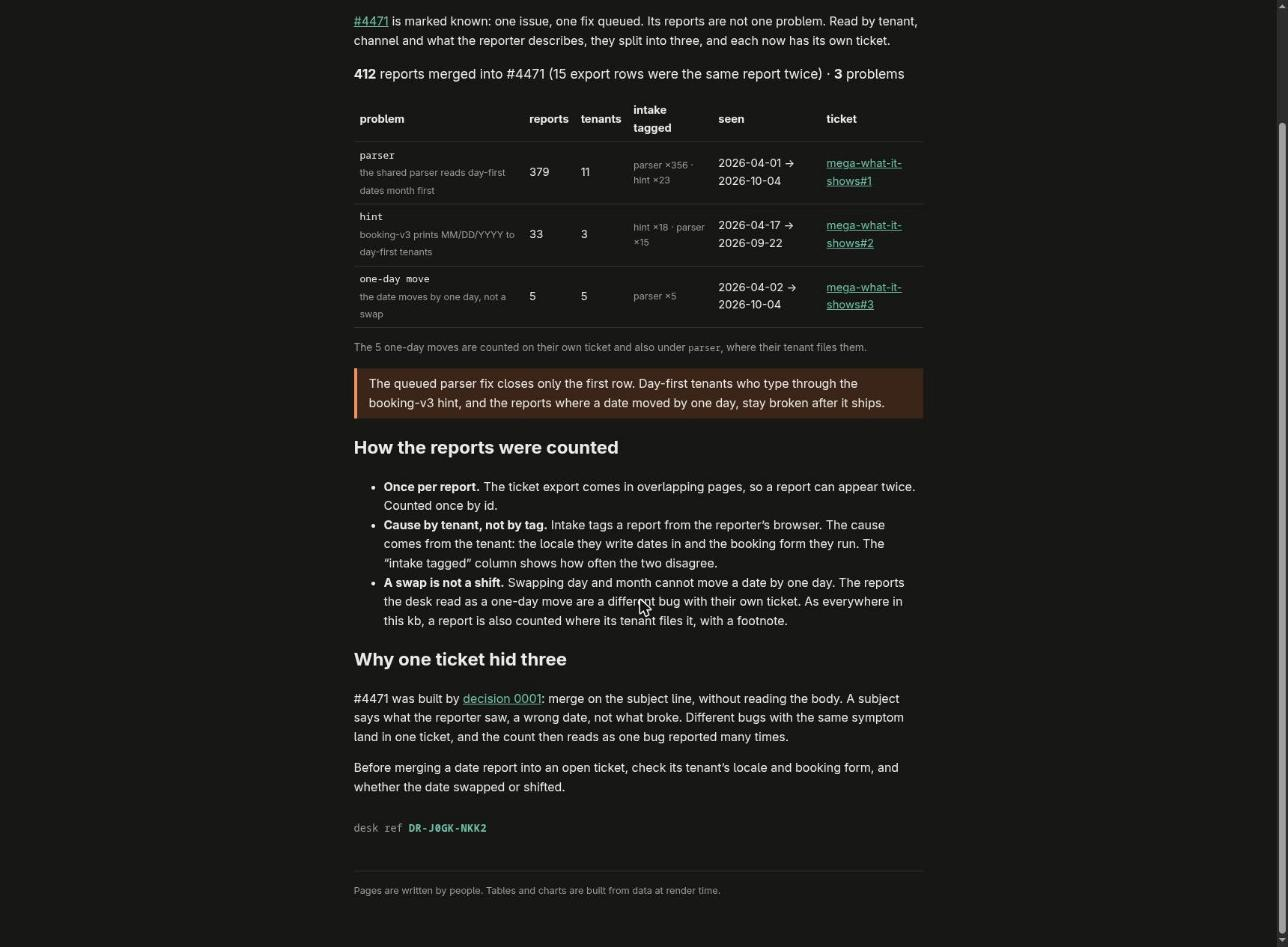
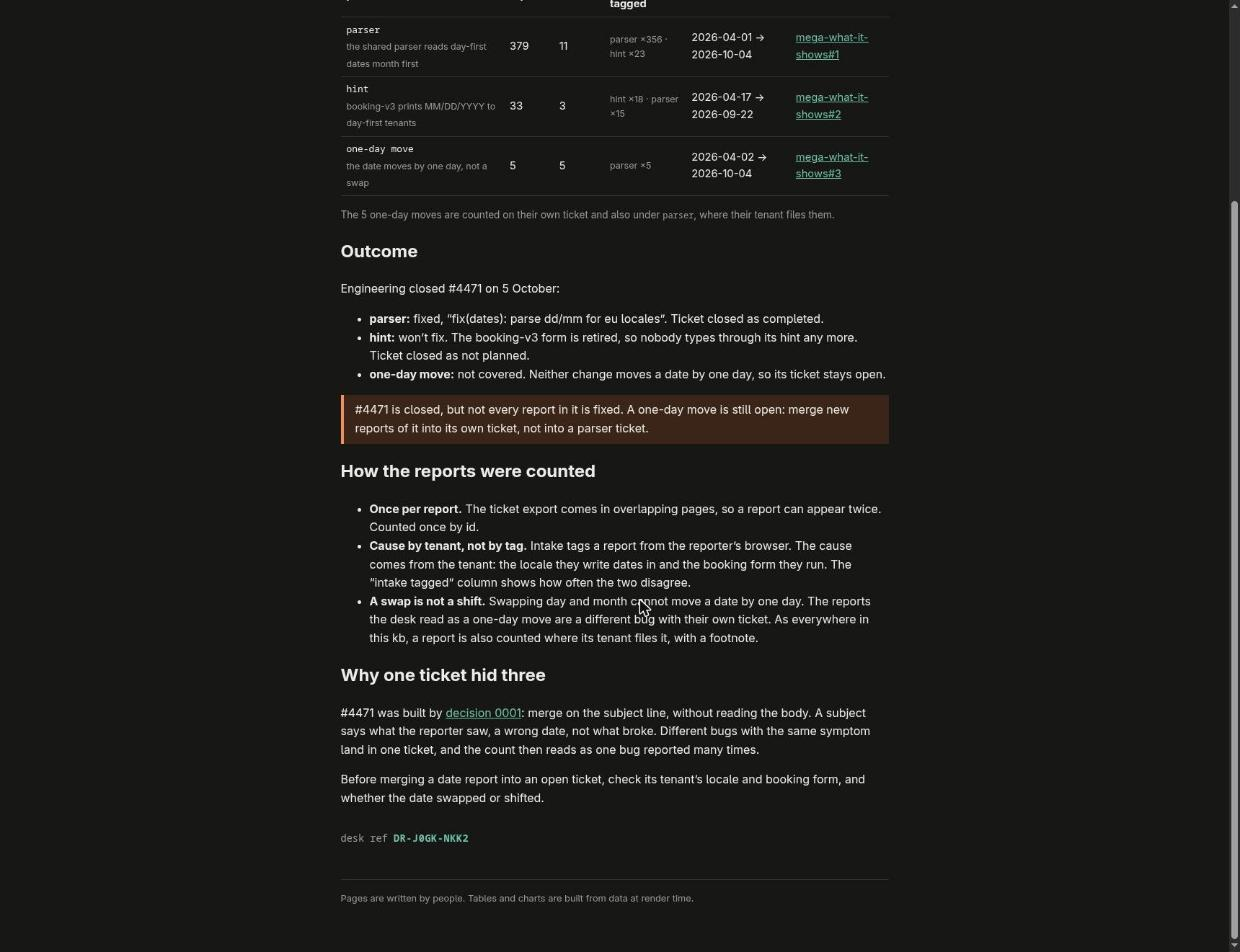
Record how #4471 closed on the kb page
Engineering closed #4471 on 05 Oct: parser fixed, booking-v3 hint
won't fix (form retired). Tickets #1 and #2 closed to match; the
one-day move (#3) is not covered and stays open. Render rebuilt.

Changed region(s): [[0.2758, 0.0, 0.7355, 0.8881], [0.2758, 0.9187, 0.5516, 0.9493], [0.9806, 0.1225, 1.0, 0.2144]]

diff --git a/rendered/kb/incidents/4471/problems.html b/rendered/kb/incidents/4471/problems.html
@@ -18,8 +18,9 @@ aside.svelte-17bri61{border-left:4px solid var(--accent);padding:.5rem 1rem;marg
     <div style="display: contents"><!--[--><!--[0--><!--[--><!--[--><div class="kb svelte-e2jw2j"><header><a class="crumb svelte-e2jw2j" href="/kb">support desk · kb</a> <h1 class="svelte-e2jw2j">#4471 · what it holds: three problems, three tickets</h1> <p class="meta svelte-e2jw2j"><span>owner <b>memmmmike</b></span> <span class="status open svelte-e2jw2j">open</span> <span class="svelte-e2jw2j">reviewed 2026-11-02 · 1 days ago</span></p></header> <!--[-1--><!--]--> <main><p><a href="/kb/incidents/4471">#4471</a> is marked known: one issue, one fix queued. Its reports are not one
 problem. Read by tenant, channel and what the reporter describes, they split into three, and each
 now has its own ticket.</p> <p class="sum svelte-1op6c6"><strong>412</strong> reports merged into #4471
-  (15 export rows were the same report twice) · <strong>3</strong> problems</p> <table><thead><tr><th>problem</th><th>reports</th><th>tenants</th><th>intake tagged</th><th>seen</th><th>ticket</th></tr></thead><tbody><!--[--><tr><td><code>parser</code> <!--[0--><br/><span class="what svelte-1op6c6">the shared parser reads day-first dates month first</span><!--]--></td><td>379</td><td>11</td><td class="tags svelte-1op6c6">parser ×356 · hint ×23</td><td>2026-04-01 → 2026-10-04</td><td><!--[0--><a href="https://github.com/memmmmike/mega-what-it-shows/issues/1">mega-what-it-shows#1</a><!--]--></td></tr><tr><td><code>hint</code> <!--[0--><br/><span class="what svelte-1op6c6">booking-v3 prints MM/DD/YYYY to day-first tenants</span><!--]--></td><td>33</td><td>3</td><td class="tags svelte-1op6c6">hint ×18 · parser ×15</td><td>2026-04-17 → 2026-09-22</td><td><!--[0--><a href="https://github.com/memmmmike/mega-what-it-shows/issues/2">mega-what-it-shows#2</a><!--]--></td></tr><tr><td><code>one-day move</code> <!--[0--><br/><span class="what svelte-1op6c6">the date moves by one day, not a swap</span><!--]--></td><td>5</td><td>5</td><td class="tags svelte-1op6c6">parser ×5</td><td>2026-04-02 → 2026-10-04</td><td><!--[0--><a href="https://github.com/memmmmike/mega-what-it-shows/issues/3">mega-what-it-shows#3</a><!--]--></td></tr><!--]--></tbody></table> <!--[0--><p class="note svelte-1op6c6">The 5 one-day moves are counted on their own ticket and also under <!--[--><!----><code>parser</code><!--]-->, where their tenant files them.</p><!--]--><!----> <aside class="warn svelte-17bri61"><!---->The queued parser fix closes only the first row. Day-first tenants who type through the booking-v3
-hint, and the reports where a date moved by one day, stay broken after it ships.<!----></aside><!----> <h2>How the reports were counted</h2> <ul><li><strong>Once per report.</strong> The ticket export comes in overlapping pages, so a report can appear twice.
+  (15 export rows were the same report twice) · <strong>3</strong> problems</p> <table><thead><tr><th>problem</th><th>reports</th><th>tenants</th><th>intake tagged</th><th>seen</th><th>ticket</th></tr></thead><tbody><!--[--><tr><td><code>parser</code> <!--[0--><br/><span class="what svelte-1op6c6">the shared parser reads day-first dates month first</span><!--]--></td><td>379</td><td>11</td><td class="tags svelte-1op6c6">parser ×356 · hint ×23</td><td>2026-04-01 → 2026-10-04</td><td><!--[0--><a href="https://github.com/memmmmike/mega-what-it-shows/issues/1">mega-what-it-shows#1</a><!--]--></td></tr><tr><td><code>hint</code> <!--[0--><br/><span class="what svelte-1op6c6">booking-v3 prints MM/DD/YYYY to day-first tenants</span><!--]--></td><td>33</td><td>3</td><td class="tags svelte-1op6c6">hint ×18 · parser ×15</td><td>2026-04-17 → 2026-09-22</td><td><!--[0--><a href="https://github.com/memmmmike/mega-what-it-shows/issues/2">mega-what-it-shows#2</a><!--]--></td></tr><tr><td><code>one-day move</code> <!--[0--><br/><span class="what svelte-1op6c6">the date moves by one day, not a swap</span><!--]--></td><td>5</td><td>5</td><td class="tags svelte-1op6c6">parser ×5</td><td>2026-04-02 → 2026-10-04</td><td><!--[0--><a href="https://github.com/memmmmike/mega-what-it-shows/issues/3">mega-what-it-shows#3</a><!--]--></td></tr><!--]--></tbody></table> <!--[0--><p class="note svelte-1op6c6">The 5 one-day moves are counted on their own ticket and also under <!--[--><!----><code>parser</code><!--]-->, where their tenant files them.</p><!--]--><!----> <h2>Outcome</h2> <p>Engineering closed #4471 on 5 October:</p> <ul><li><strong>parser:</strong> fixed, “fix(dates): parse dd/mm for eu locales”. Ticket closed as completed.</li> <li><strong>hint:</strong> won’t fix. The booking-v3 form is retired, so nobody types through its hint any more.
+Ticket closed as not planned.</li> <li><strong>one-day move:</strong> not covered. Neither change moves a date by one day, so its ticket stays open.</li></ul> <aside class="warn svelte-17bri61"><!---->#4471 is closed, but not every report in it is fixed. A one-day move is still open: merge new
+reports of it into its own ticket, not into a parser ticket.<!----></aside><!----> <h2>How the reports were counted</h2> <ul><li><strong>Once per report.</strong> The ticket export comes in overlapping pages, so a report can appear twice.
 Counted once by id.</li> <li><strong>Cause by tenant, not by tag.</strong> Intake tags a report from the reporter’s browser. The cause
 comes from the tenant: the locale they write dates in and the booking form they run. The
 “intake tagged” column shows how often the two disagree.</li> <li><strong>A swap is not a shift.</strong> Swapping day and month cannot move a date by one day. The reports
